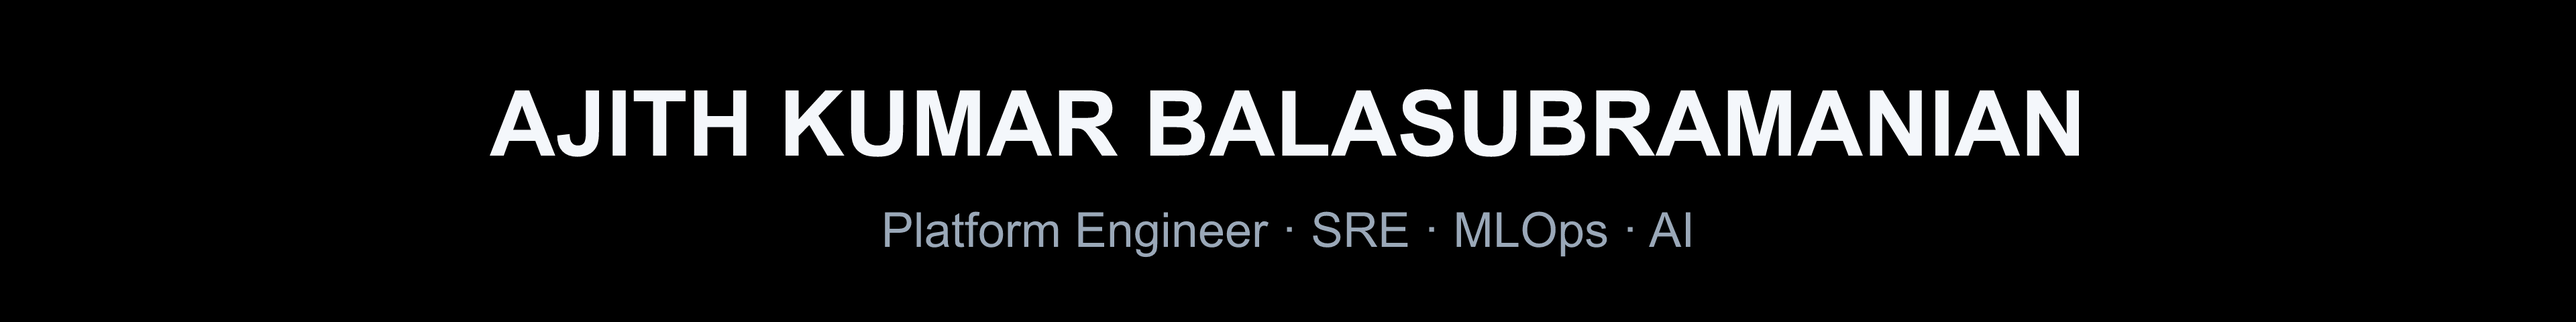
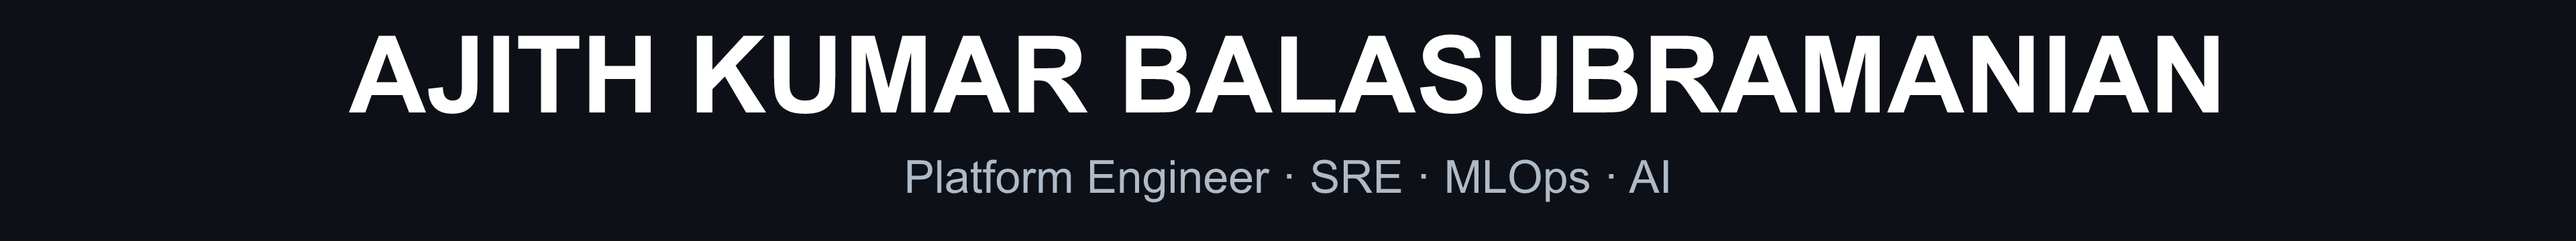
Match the compact header from the reference screenshot.
Keep WORK/EXPERIENCE/STACK on one GitHub row and tighten the name/role banner so it sits cleanly above the credentials.

Changed region(s): [[0.125, 0.1222, 0.875, 0.4889], [0.3438, 0.6417, 0.6562, 0.825]]

diff --git a/scripts/split_hero.py b/scripts/split_hero.py
@@ -12,11 +12,11 @@ def _render_png(svg:str,path:Path)->None:
 def render_identity():
  # Optional banner artwork kept in sync with the HTML identity line in README.md.
  # The public profile uses the HTML title; these PNGs remain for local/offline reuse.
- # Black canvas matches the certification row on GitHub (no custom CSS there).
- source='''<svg xmlns="http://www.w3.org/2000/svg" width="3840" height="480" viewBox="0 0 960 120" role="img" aria-labelledby="title desc"><title id="title">AJITH KUMAR BALASUBRAMANIAN</title><desc id="desc">Platform Engineer, SRE, MLOps and AI.</desc><rect width="960" height="120" fill="#000"/><g font-family="Arial, Helvetica, sans-serif" text-anchor="middle"><text x="480" y="58" font-size="34" font-weight="700" fill="#f4f7fb">AJITH KUMAR BALASUBRAMANIAN</text><text x="480" y="92" font-size="18" font-weight="400" fill="#9aa8b8">Platform Engineer  ·  SRE  ·  MLOps  ·  AI</text></g></svg>'''
+ # Match the compact perfect header: large caps name, muted role line, little empty black.
+ source='''<svg xmlns="http://www.w3.org/2000/svg" width="3840" height="360" viewBox="0 0 960 90" role="img" aria-labelledby="title desc"><title id="title">AJITH KUMAR BALASUBRAMANIAN</title><desc id="desc">Platform Engineer, SRE, MLOps and AI.</desc><rect width="960" height="90" fill="#0d1117"/><g font-family="Arial, Helvetica, sans-serif" text-anchor="middle"><text x="480" y="42" font-size="40" font-weight="700" fill="#ffffff">AJITH KUMAR BALASUBRAMANIAN</text><text x="480" y="72" font-size="17" font-weight="400" fill="#b0bac6">Platform Engineer · SRE · MLOps · AI</text></g></svg>'''
  (ROOT/'assets/hero-identity-4k.svg').write_text(source)
  _render_png(source,ROOT/'assets/hero-identity-4k.png')
- mobile='''<svg xmlns="http://www.w3.org/2000/svg" width="1920" height="520" viewBox="0 0 480 130" role="img" aria-labelledby="title desc"><title id="title">AJITH KUMAR BALASUBRAMANIAN</title><desc id="desc">Platform Engineer, SRE, MLOps and AI.</desc><rect width="480" height="130" fill="#000"/><g font-family="Arial, Helvetica, sans-serif" text-anchor="middle"><text x="240" y="48" font-size="20" font-weight="700" fill="#f4f7fb">AJITH KUMAR</text><text x="240" y="74" font-size="20" font-weight="700" fill="#f4f7fb">BALASUBRAMANIAN</text><text x="240" y="106" font-size="13" font-weight="400" fill="#9aa8b8">Platform Engineer · SRE · MLOps · AI</text></g></svg>'''
+ mobile='''<svg xmlns="http://www.w3.org/2000/svg" width="1920" height="400" viewBox="0 0 480 100" role="img" aria-labelledby="title desc"><title id="title">AJITH KUMAR BALASUBRAMANIAN</title><desc id="desc">Platform Engineer, SRE, MLOps and AI.</desc><rect width="480" height="100" fill="#0d1117"/><g font-family="Arial, Helvetica, sans-serif" text-anchor="middle"><text x="240" y="38" font-size="22" font-weight="700" fill="#ffffff">AJITH KUMAR</text><text x="240" y="62" font-size="22" font-weight="700" fill="#ffffff">BALASUBRAMANIAN</text><text x="240" y="88" font-size="12" font-weight="400" fill="#b0bac6">Platform Engineer · SRE · MLOps · AI</text></g></svg>'''
  (ROOT/'assets/hero-identity-mobile.svg').write_text(mobile)
  _render_png(mobile,ROOT/'assets/hero-identity-mobile.png')
 

diff --git a/PROFILE-STATIC.md b/PROFILE-STATIC.md
@@ -2,13 +2,16 @@
 
 <a name="top"></a>
 
-<table class="profile-header" width="100%"><tr><td align="left" width="50%"><p align="center" class="banner-contact">
-  <a href="https://github.com/ajithbuilds"><img src="assets/social/github-icon.svg" width="22" height="22" alt="GitHub" /> <sub>GitHub</sub></a>
-  <a href="https://www.linkedin.com/in/ak12061995/"><img src="assets/social/linkedin-small.png" width="22" alt="LinkedIn" /> <sub>LinkedIn</sub></a>
-  <a href="mailto:ajithkumarren@gmail.com"><img src="assets/social/gmail.svg" width="65" height="22" alt="Email me with Gmail" /></a>
-</p></td><td align="right" width="50%"><p align="center" class="profile-nav">
-  <a href="#work"><img src="assets/navigation/work.svg" width="80" height="30" alt="WORK" /></a> &nbsp; <a href="#experience"><img src="assets/navigation/experience.svg" width="128" height="30" alt="EXPERIENCE" /></a> &nbsp; <a href="#tech-stack"><img src="assets/navigation/tech-stack.svg" width="82" height="30" alt="STACK" /></a>
-</p></td></tr></table>
+<table class="profile-header" width="100%"><tr>
+<td align="left" valign="middle" width="48%"><p align="left" class="banner-contact">
+  <a href="https://github.com/ajithbuilds"><img src="assets/social/github-icon.svg" width="20" height="20" alt="GitHub" /> <sub>GitHub</sub></a>&nbsp;&nbsp;
+  <a href="https://www.linkedin.com/in/ak12061995/"><img src="assets/social/linkedin-small.png" width="20" alt="LinkedIn" /> <sub>LinkedIn</sub></a>&nbsp;&nbsp;
+  <a href="mailto:ajithkumarren@gmail.com"><img src="assets/social/gmail.svg" width="58" height="20" alt="Email me with Gmail" /></a>
+</p></td>
+<td align="right" valign="middle" width="52%" nowrap><p align="right" class="profile-nav">
+  <a href="#work"><img src="assets/navigation/work.svg" width="64" height="24" alt="WORK" /></a>&nbsp;<a href="#experience"><img src="assets/navigation/experience.svg" width="102" height="24" alt="EXPERIENCE" /></a>&nbsp;<a href="#tech-stack"><img src="assets/navigation/tech-stack.svg" width="66" height="24" alt="STACK" /></a>
+</p></td>
+</tr></table>
 
 <p align="center" class="hero-identity"><picture><source media="(max-width: 600px)" srcset="assets/hero-identity-mobile.png" /><img src="assets/hero-identity-4k.png" width="960" alt="AJITH KUMAR BALASUBRAMANIAN. Platform Engineer, SRE, MLOps and AI." /></picture></p>
 

diff --git a/README.md b/README.md
@@ -1,12 +1,15 @@
 <a name="top"></a>
 
-<table class="profile-header" width="100%"><tr><td align="left" width="50%"><p align="center" class="banner-contact">
-  <a href="https://github.com/ajithbuilds"><img src="assets/social/github-icon.svg" width="22" height="22" alt="GitHub" /> <sub>GitHub</sub></a>
-  <a href="https://www.linkedin.com/in/ak12061995/"><img src="assets/social/linkedin-small.png" width="22" alt="LinkedIn" /> <sub>LinkedIn</sub></a>
-  <a href="mailto:ajithkumarren@gmail.com"><img src="assets/social/gmail.svg" width="65" height="22" alt="Email me with Gmail" /></a>
-</p></td><td align="right" width="50%"><p align="center" class="profile-nav">
-  <a href="#work"><img src="assets/navigation/work.svg" width="80" height="30" alt="WORK" /></a> &nbsp; <a href="#experience"><img src="assets/navigation/experience.svg" width="128" height="30" alt="EXPERIENCE" /></a> &nbsp; <a href="#tech-stack"><img src="assets/navigation/tech-stack.svg" width="82" height="30" alt="STACK" /></a>
-</p></td></tr></table>
+<table class="profile-header" width="100%"><tr>
+<td align="left" valign="middle" width="48%"><p align="left" class="banner-contact">
+  <a href="https://github.com/ajithbuilds"><img src="assets/social/github-icon.svg" width="20" height="20" alt="GitHub" /> <sub>GitHub</sub></a>&nbsp;&nbsp;
+  <a href="https://www.linkedin.com/in/ak12061995/"><img src="assets/social/linkedin-small.png" width="20" alt="LinkedIn" /> <sub>LinkedIn</sub></a>&nbsp;&nbsp;
+  <a href="mailto:ajithkumarren@gmail.com"><img src="assets/social/gmail.svg" width="58" height="20" alt="Email me with Gmail" /></a>
+</p></td>
+<td align="right" valign="middle" width="52%" nowrap><p align="right" class="profile-nav">
+  <a href="#work"><img src="assets/navigation/work.svg" width="64" height="24" alt="WORK" /></a>&nbsp;<a href="#experience"><img src="assets/navigation/experience.svg" width="102" height="24" alt="EXPERIENCE" /></a>&nbsp;<a href="#tech-stack"><img src="assets/navigation/tech-stack.svg" width="66" height="24" alt="STACK" /></a>
+</p></td>
+</tr></table>
 
 <p align="center" class="hero-identity"><picture><source media="(max-width: 600px)" srcset="assets/hero-identity-mobile.png" /><img src="assets/hero-identity-4k.png" width="960" alt="AJITH KUMAR BALASUBRAMANIAN. Platform Engineer, SRE, MLOps and AI." /></picture></p>
 
